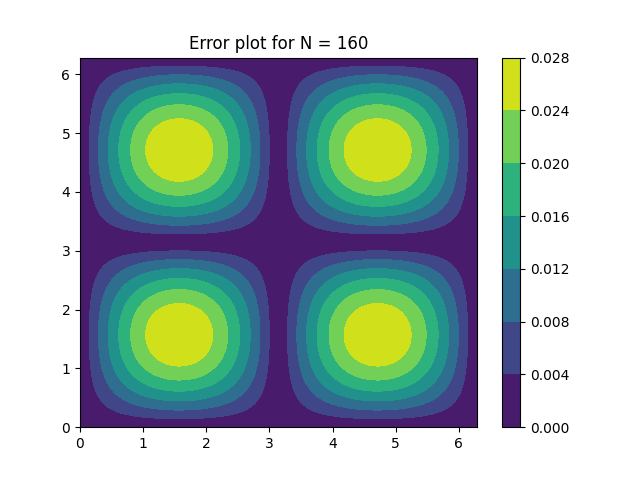
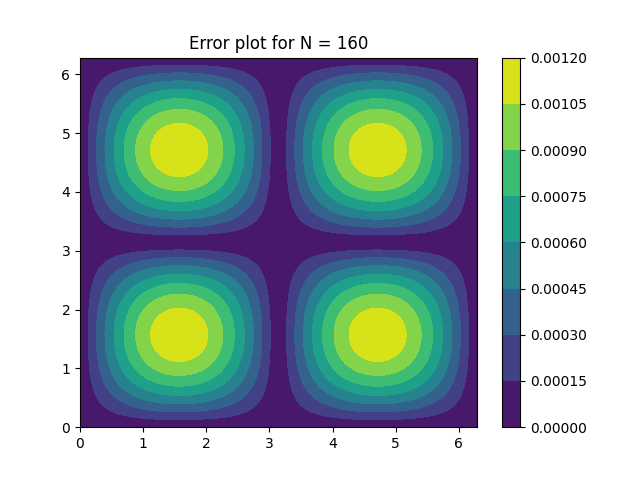
final

diff --git a/wavef.py b/wavef.py
@@ -20,17 +20,7 @@ def stability_condition(dx, n):
 
 
 
-def central_difference_scheme(N, T, dt):
-    dx = 2 * np.pi / N
-    dy = 2 * np.pi / N
-
-    X = np.zeros((N + 1, N + 1))
-    Y = np.zeros((N + 1, N + 1))
-    for i in range(N + 1):
-        for j in range(N + 1):
-            X[i, j] = i * dx
-            Y[i, j] = j * dy
-
+def central_difference_scheme(X, Y, N, T, dt):
     u = np.zeros((N + 1, N + 1))
     u_prev = np.zeros((N + 1, N + 1))
     u_next = np.zeros((N + 1, N + 1))
@@ -44,7 +34,6 @@ def central_difference_scheme(N, T, dt):
             u[i, j] = initial_u(X[i, j], Y[i, j]) + ddt * initial_ut(X[i, j], Y[i, j])
             u_prev[i, j] = initial_u(X[i, j], Y[i, j])
 
-
     # time advancing
     for n in range(Nt - 1):
         for i in range(1, N):
@@ -54,7 +43,6 @@ def central_difference_scheme(N, T, dt):
                                             u[i, j + 1] - 2 * u[i, j] + u[i, j - 1])
         u_prev = u.copy()
         u = u_next.copy()
-
     
     return u
 
@@ -65,8 +53,7 @@ errors = []
 T = 1
 for N in N_values:
     dt = stability_condition(2 * np.pi / N,2)
-    # dt = 0.01
-    u_numerical = central_difference_scheme(N, T, dt)
+    # dt = 0.0001
     dx = 2 * np.pi / N
     dy = 2 * np.pi / N
     X = np.zeros((N + 1, N + 1))
@@ -75,12 +62,15 @@ for N in N_values:
         for j in range(N + 1):
             X[i, j] = i * dx
             Y[i, j] = j * dy
+
+    u_numerical = central_difference_scheme(X, Y, N, T, dt)
     u_exact = exact_solution(X, Y, T)
+    r = u_numerical - u_exact
+    res = np.linalg.norm(r/N, 2)    
+    errors.append(res)
     error = np.max(np.abs(u_exact - u_numerical))
-    errors.append(error)
     print(f"For N = {N}, the max error is {error}")
 
-    # plt.scatter(X, Y, c=np.abs(u_exact - u_numerical), cmap=plt.cm.rainbow, vmin=0.0, vmax=0.08)
     plt.contourf(X, Y, np.abs(u_exact - u_numerical))
     plt.colorbar()
     plt.title(f"Error plot for N = {N}")
